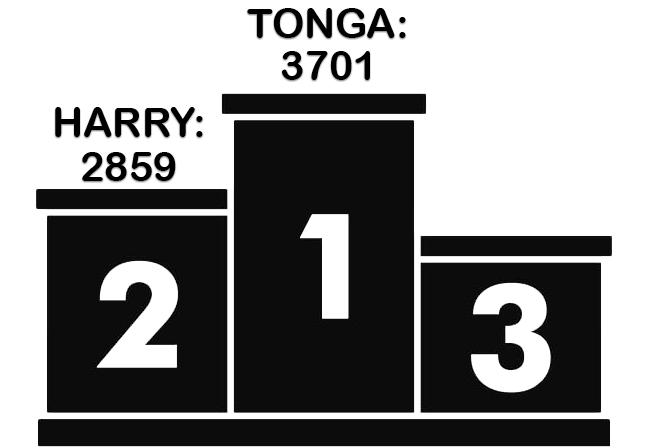
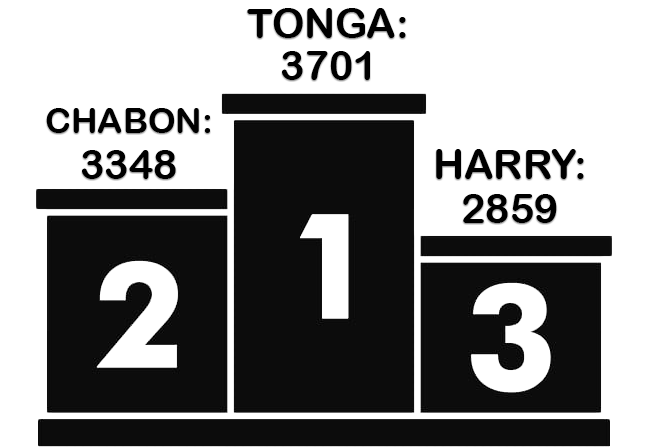
Agregando puntaje de chabon

Changed region(s): [[0.061, 0.2327, 0.3354, 0.4072], [0.6402, 0.3199, 0.9146, 0.4072], [0.7012, 0.4362, 0.8537, 0.5235]]

diff --git a/suika/top/index.html b/suika/top/index.html
@@ -185,6 +185,12 @@
                             </tr>
                             <tr>
                                 <td>2</td>
+                                <td><a href="https://www.twitch.tv/chabon">Chabon</a></td>
+                                <td>3348</td>
+                                <td><a href="https://www.twitch.tv/chabon/clip/SucculentSplendidUdonDxCat-tUwiNlt1pk9Az74I">Clip</a></td>
+                            </tr>
+                            <tr>
+                                <td>3</td>
                                 <td><a href="https://www.twitch.tv/harryalexok">HarryAlexOk</a></td>
                                 <td>2859</td>
                                 <td><a href="https://www.twitch.tv/harryalexok/clip/GleamingUglyTomatoAMPTropPunch-21ojQ4kqVsoed0Z3">Clip</a></td>
